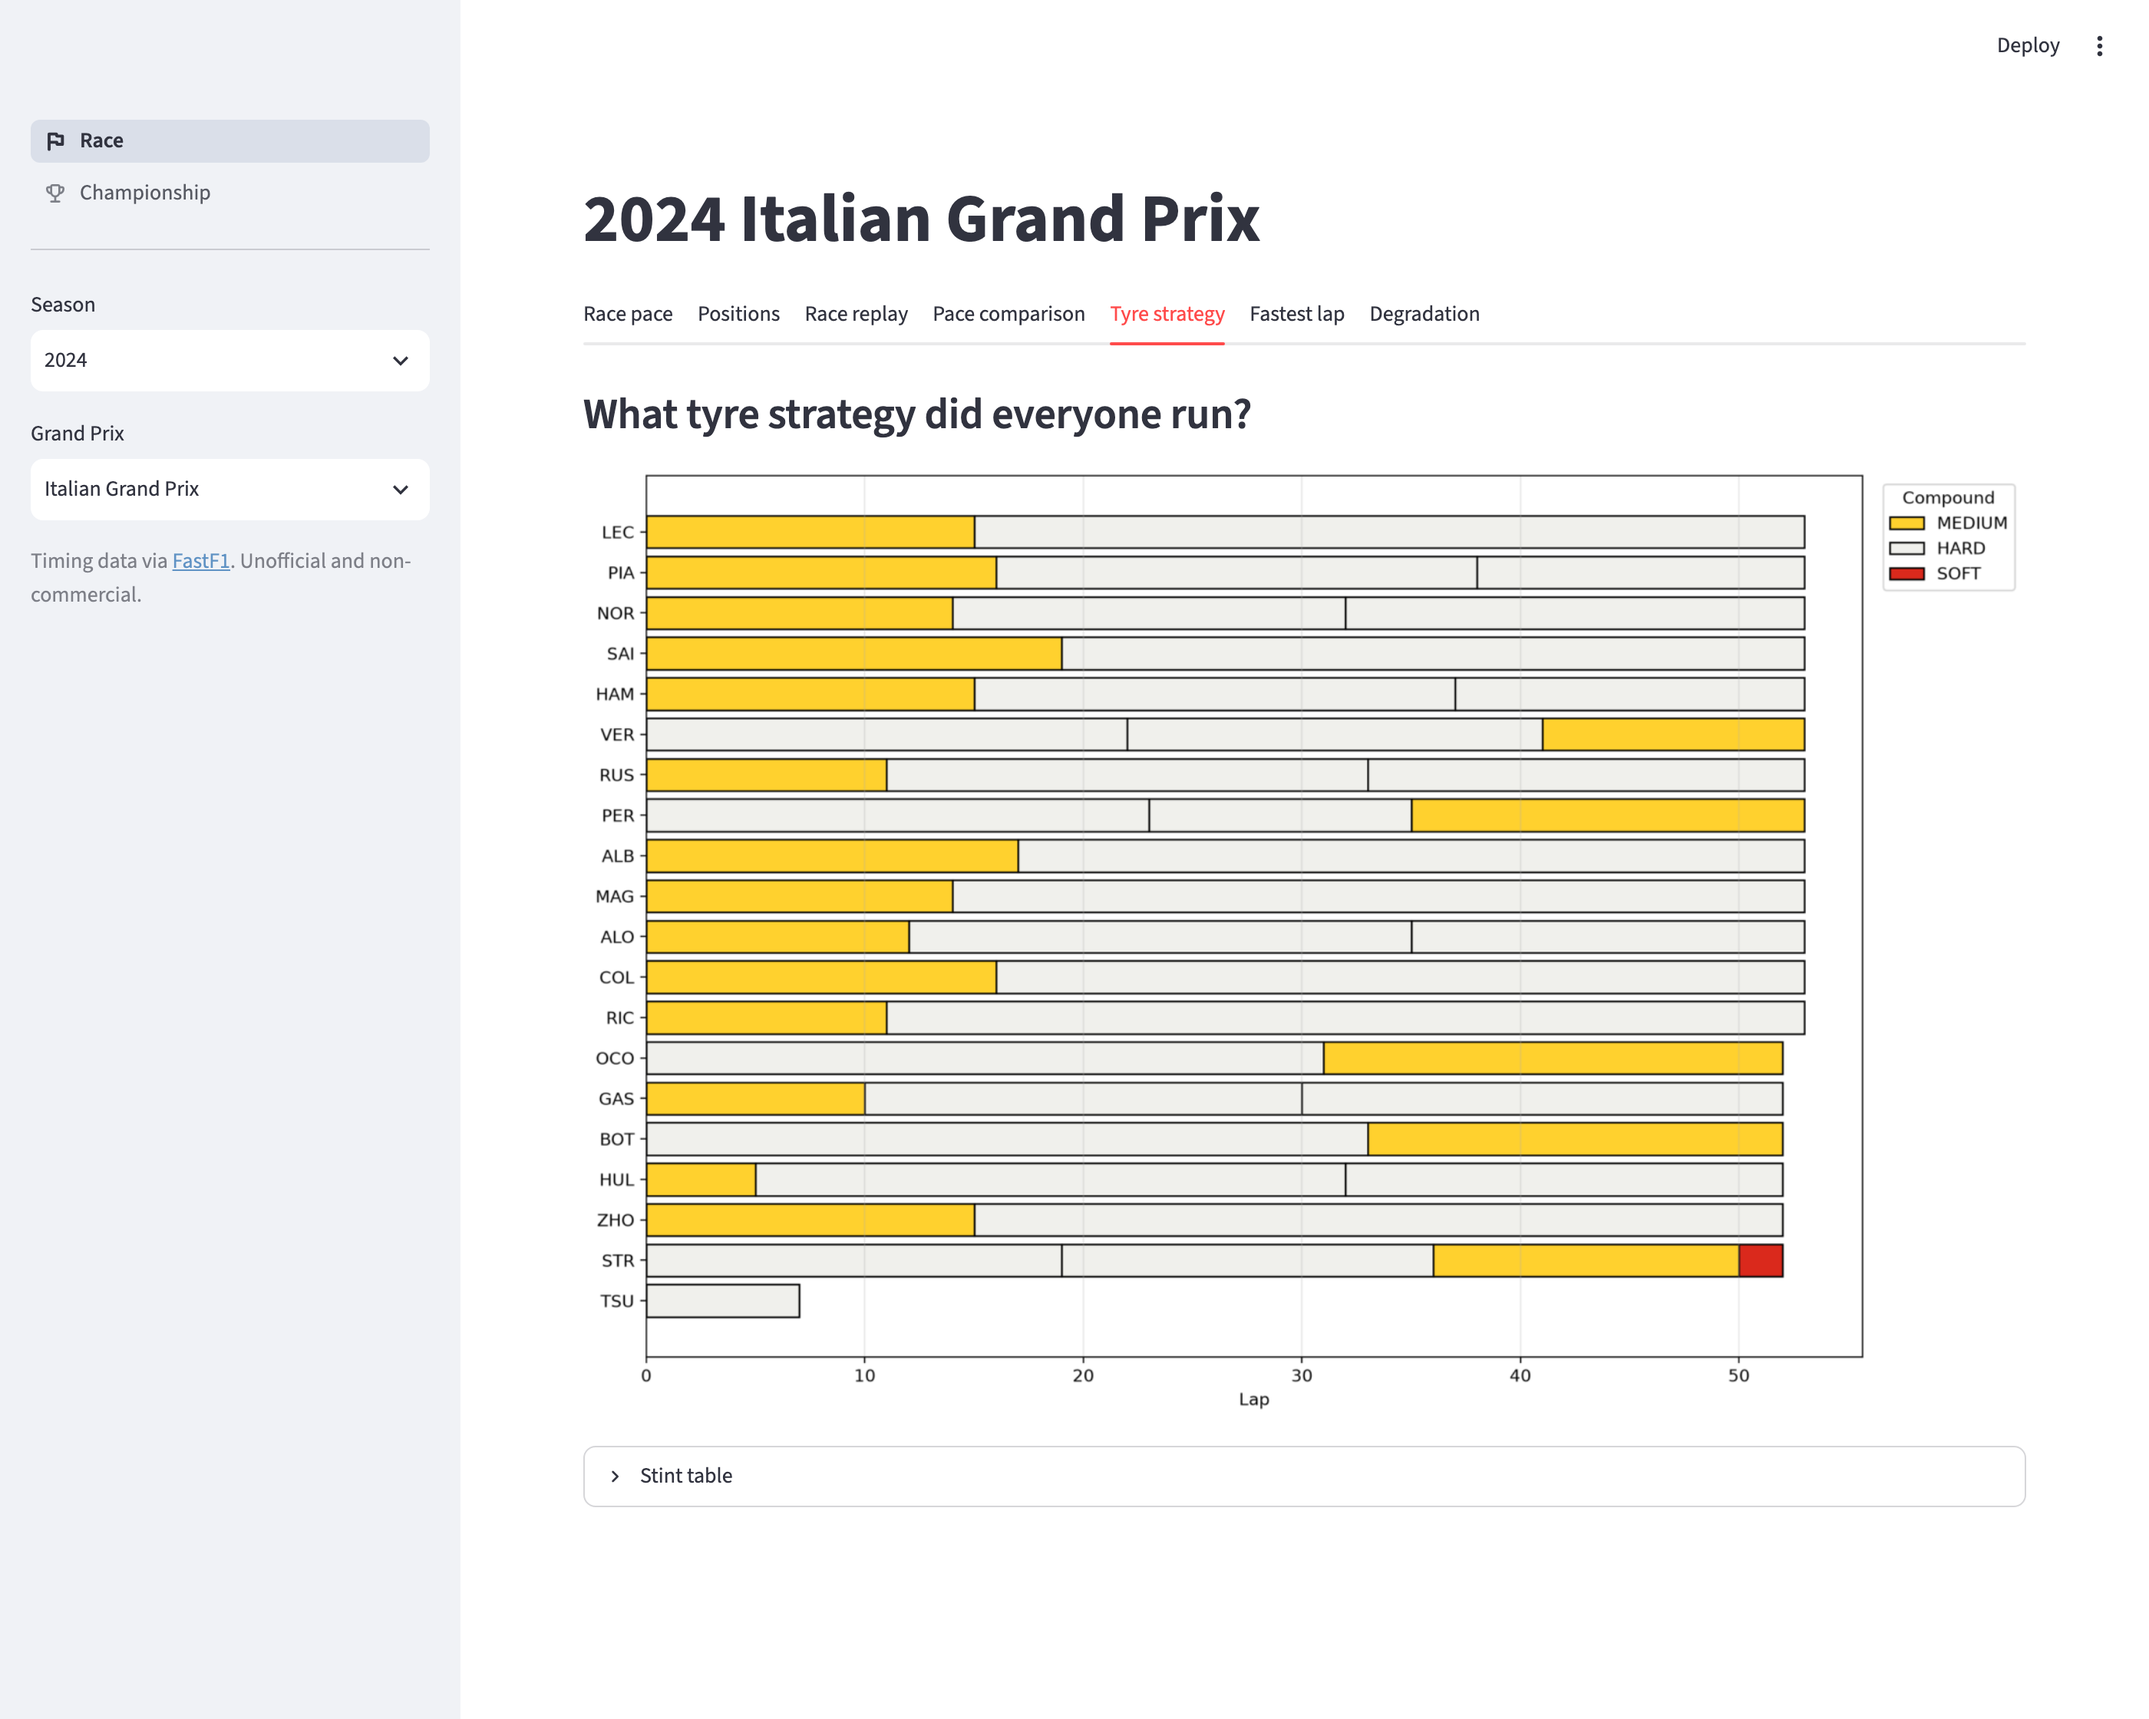
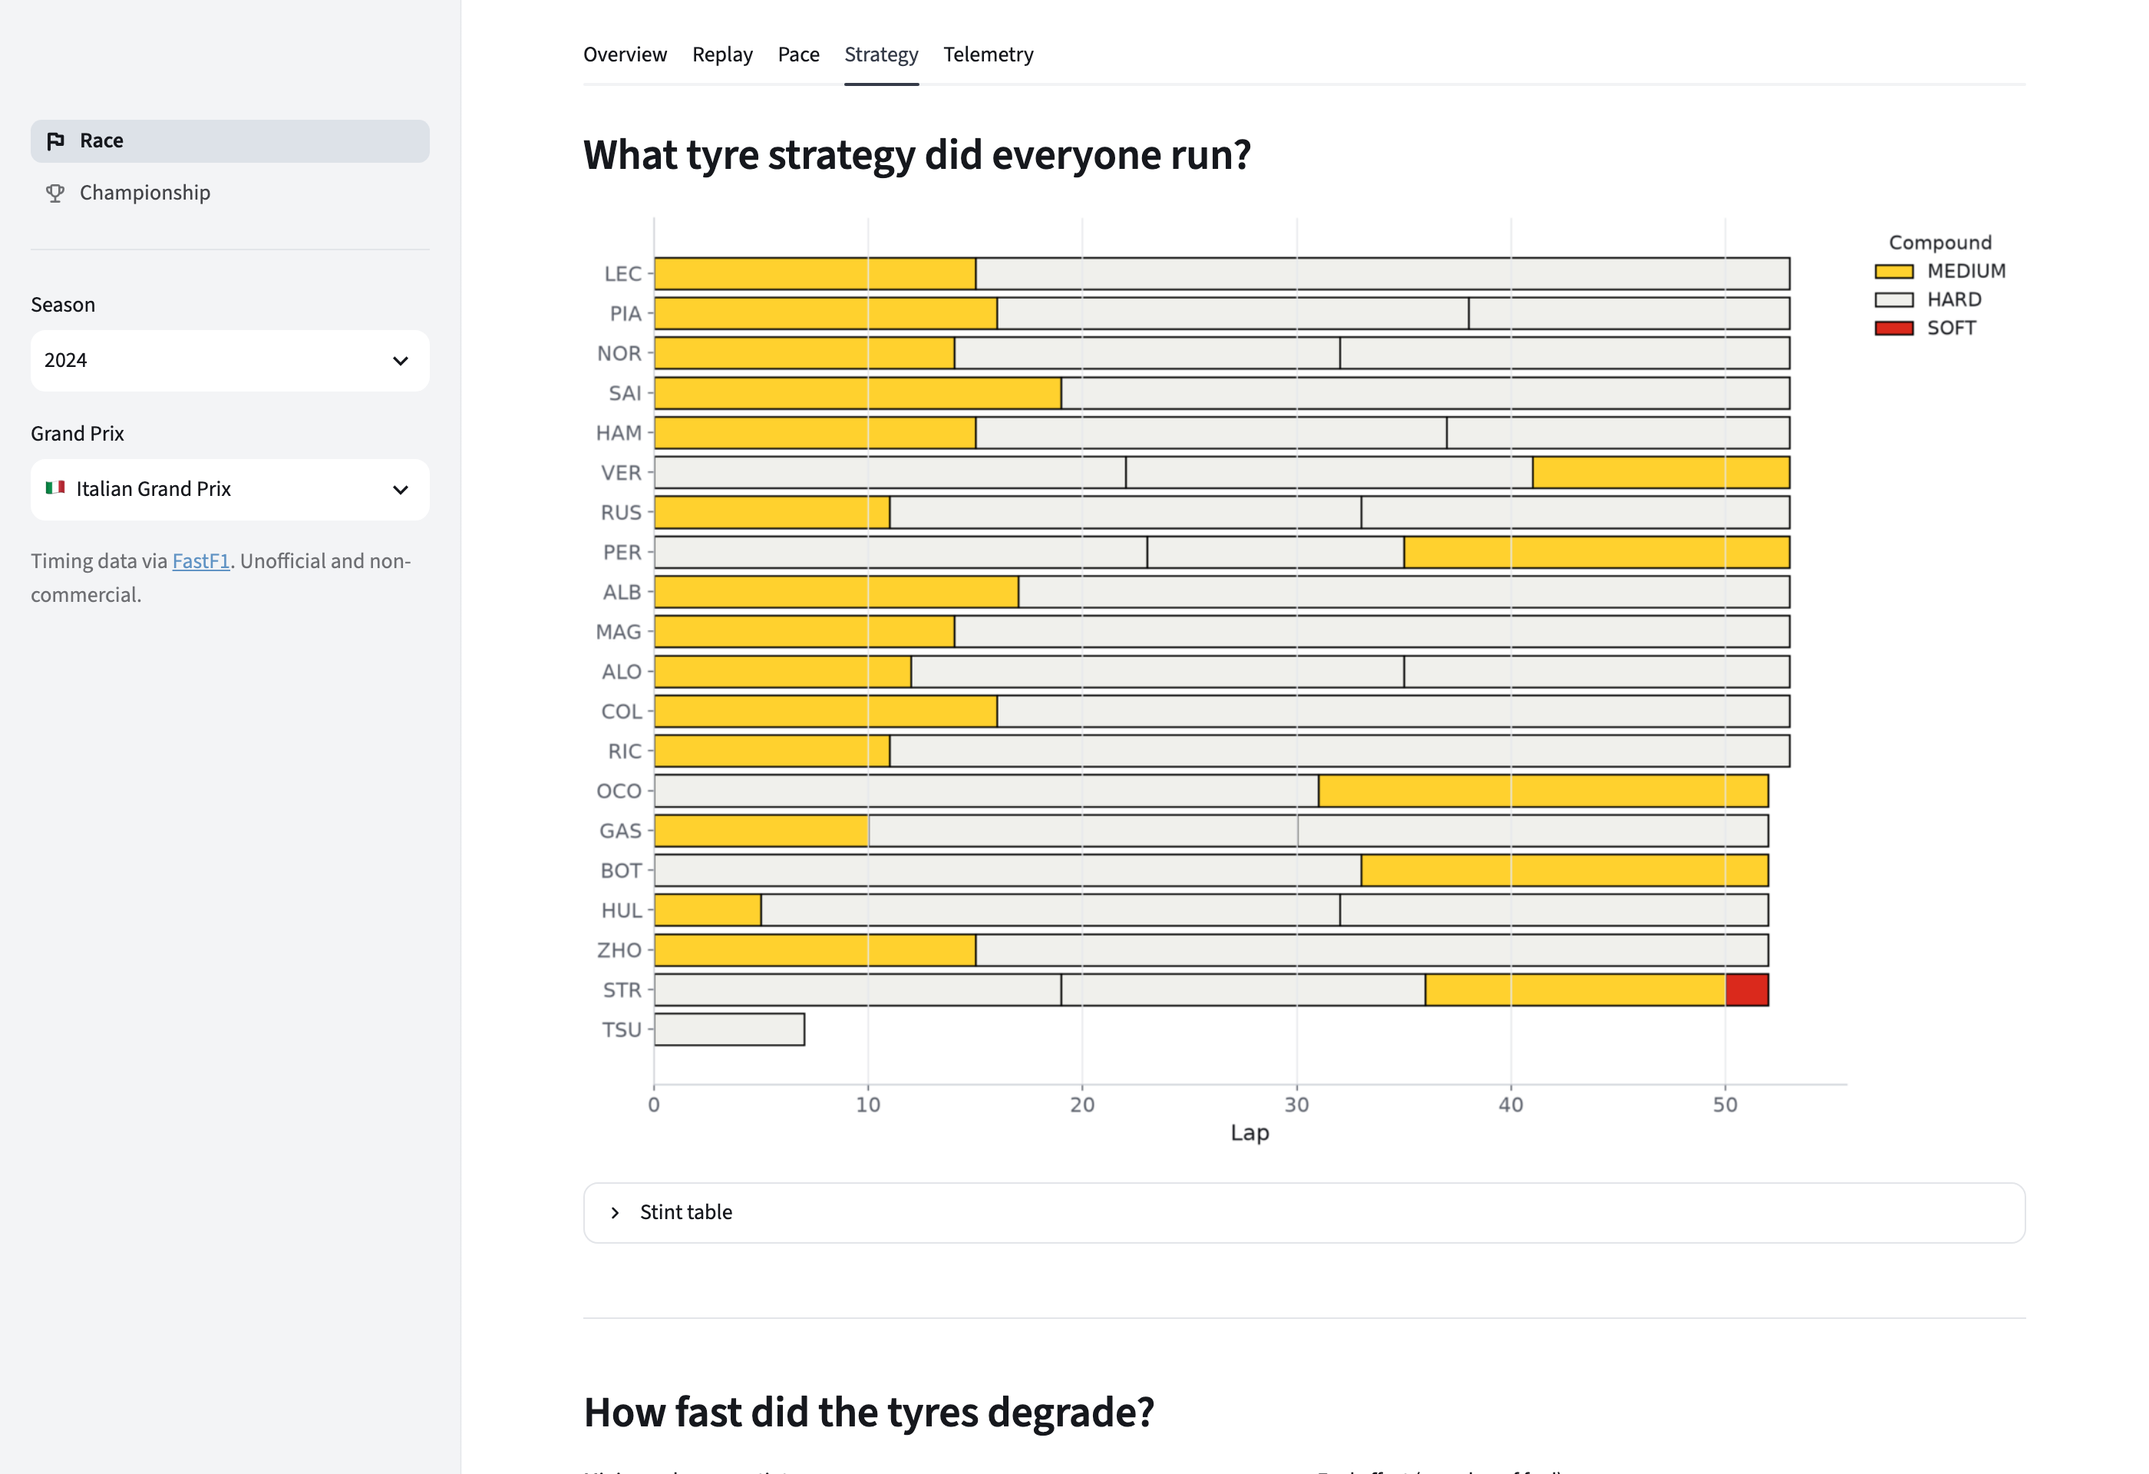
Update README screenshots

diff --git a/README.md b/README.md
@@ -2,19 +2,19 @@
 
 Race analysis dashboard built on [FastF1](https://github.com/theOehrly/Fast-F1) timing data. Pick a Grand Prix and see how the race played out, or follow a whole championship season. Every race from 2018 to the latest 2026 round is included.
 
-![Race pace](docs/pace.png)
+![Race overview](docs/overview.png)
 
 ## Features
 
 **Race**
 
-- **Race pace.** Lap times for any set of drivers. Optionally limited to representative laps (no pit in/out laps, no laps under safety car or flags, no laps FastF1 marks as inaccurate) and fuel-corrected.
-- **Positions.** Every driver's position lap by lap, with selected drivers highlighted.
-- **Race replay.** Every car on a map of the circuit through the whole race, with the running order alongside. Play it or drag the slider lap by lap.
-- **Pace comparison.** Each team's lap time spread, ordered by median pace, and each driver's lap time distribution coloured by tyre compound.
-- **Tyre strategy.** Every driver's stints, coloured by compound and ordered by finishing position.
-- **Fastest lap.** Speed against distance for two drivers' fastest laps, with corner markers, and the same laps on a track map coloured by speed or by who was quicker in each mini-sector.
-- **Degradation.** Per-stint degradation rate from a linear fit of fuel-corrected lap time against tyre age, summarised by compound.
+Every race opens with a summary: the podium, the fastest lap, the number of pit stops and any safety car, virtual safety car or red flag. The analysis is split into five tabs.
+
+- **Overview.** Every driver's position lap by lap, with selected drivers highlighted, plus who led and for how many laps.
+- **Replay.** Every car on a map of the circuit through the whole race, with the running order alongside. Play it or drag the slider lap by lap.
+- **Pace.** Lap times for any set of drivers, optionally limited to representative laps (no pit in/out laps, no laps under safety car or flags, no laps FastF1 marks as inaccurate) and fuel-corrected. Each team's lap time spread ordered by median pace, and each driver's lap time distribution coloured by tyre compound.
+- **Strategy.** Every driver's stints, coloured by compound and ordered by finishing position, and the degradation rate of each stint from a linear fit of fuel-corrected lap time against tyre age, summarised by compound.
+- **Telemetry.** Speed against distance for two drivers' fastest laps, with corner markers, and the same laps on a track map coloured by speed or by who was quicker in each mini-sector.
 
 **Championship**
 
@@ -24,11 +24,11 @@ Race analysis dashboard built on [FastF1](https://github.com/theOehrly/Fast-F1) 
 
 ![Race replay](docs/replay.png)
 
-| Positions | Pace comparison |
+| Pace | Team pace |
 | --- | --- |
-| ![Positions](docs/positions.png) | ![Pace comparison](docs/comparison.png) |
-| **Tyre strategy** | **Fastest lap** |
-| ![Tyre strategy](docs/strategy.png) | ![Fastest lap](docs/fastest-lap.png) |
+| ![Pace](docs/pace.png) | ![Team pace](docs/team-pace.png) |
+| **Strategy** | **Telemetry** |
+| ![Strategy](docs/strategy.png) | ![Telemetry](docs/telemetry.png) |
 
 ![Championship](docs/championship.png)
 
@@ -86,6 +86,7 @@ Everything in `src/` works on plain pandas DataFrames and has no Streamlit depen
 
 ## Methodology
 
+- **Race summary.** Safety car and virtual safety car periods are counted in the winner's laps that ran under them. Pit stops leave out pit lane entries during a red flag, when every car waits in the pit lane. Laps led and lead changes come from the running order at the end of each lap.
 - **Fuel correction** subtracts `fuel_effect × laps remaining` from each lap time, normalising every lap to an empty tank. The default is 0.055 s per lap of fuel and can be changed in the app.
 - **Degradation** is the slope of a least-squares line through fuel-corrected lap time against tyre age, fitted per stint. Stints shorter than the configurable minimum (8 laps by default) are skipped.
 - A straight line is a simplification: tyre warm-up at the start of a stint and the drop-off at the end are averaged into one number.
